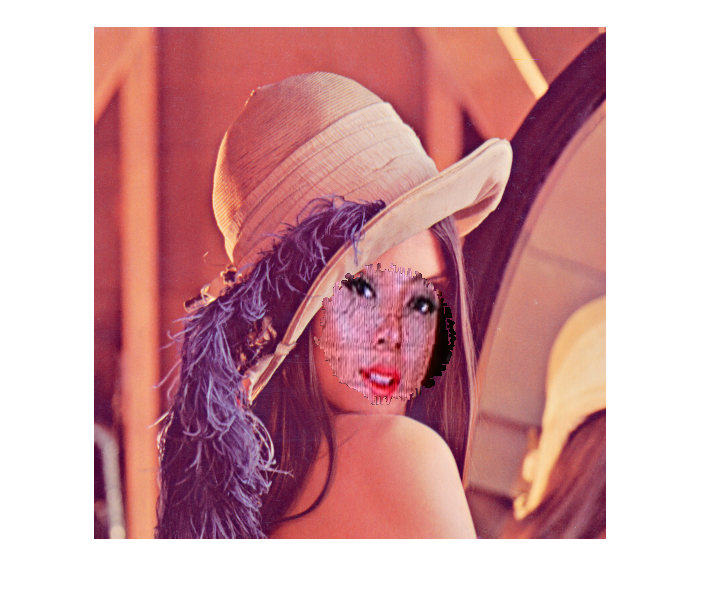
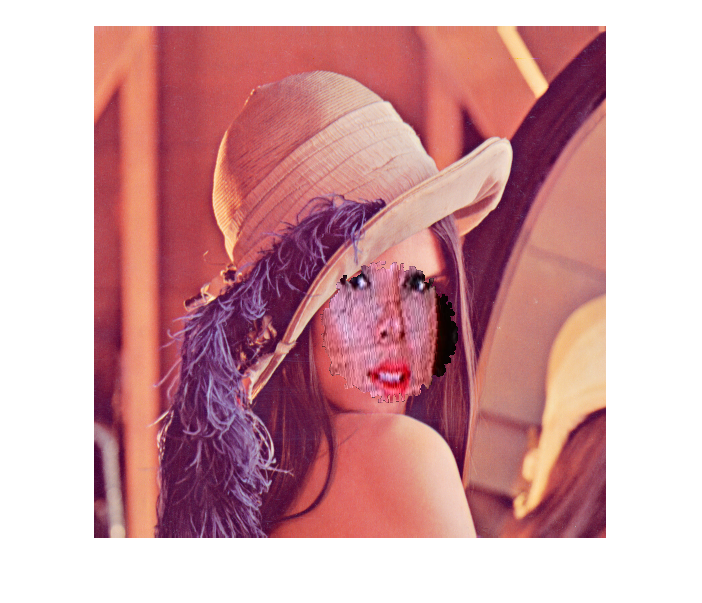
Versao mais recente

diff --git a/auto.m b/auto.m
@@ -21,24 +21,24 @@ function final = auto(face1, face2, opt, grad_type)
     P1 = landmarks(I1, det1);
     P2 = landmarks(I2, det2);
     
-    eye1_1 = [(P1(1, 2) + P1(1, 5)) / 2, (P1(2, 2) + P1(2, 5)) / 2];
-    eye1_2 = [(P2(1, 2) + P2(1, 5)) / 2, (P2(2, 2) + P2(2, 5)) / 2];
+    eye1_1 = [(P1(1, 2) + P1(1, 6)) / 2, (P1(2, 2) + P1(2, 6)) / 2]
+    eye2_1 = [(P1(1, 3) + P1(1, 7)) / 2, (P1(2, 3) + P1(2, 7)) / 2]
     
-    eye2_1 = [(P1(1, 3) + P1(1, 7)) / 2, (P1(2, 3) + P1(2, 7)) / 2];
-    eye2_2 = [(P2(1, 3) + P2(1, 7)) / 2, (P2(2, 3) + P2(2, 7)) / 2];
+    eye1_2 = [(P2(1, 2) + P2(1, 6)) / 2, (P2(2, 2) + P2(2, 6)) / 2]
+    eye2_2 = [(P2(1, 3) + P2(1, 7)) / 2, (P2(2, 3) + P2(2, 7)) / 2]
     
-    if eye1_2(1) - eye1_1(1) ~= 0
-        inc_1 = atan((eye1_2(2) - eye1_1(2)) / (eye1_2(1) - eye1_1(1)))
+    if eye2_1(1) - eye1_1(1) ~= 0
+        inc_1 = atan((eye2_1(2) - eye1_1(2)) / (eye2_1(1) - eye1_1(1)))
     else
-        inc_1 = 0;
+        inc_1 = 0
     end
-    if eye2_2(1) - eye2_1(1) ~= 0
-        inc_2 = atan((eye2_2(2) - eye2_1(2)) / (eye2_2(1) - eye2_1(1)))
+    if eye2_2(1) - eye1_2(1) ~= 0
+        inc_2 = atan((eye2_2(2) - eye1_2(2)) / (eye2_2(1) - eye1_2(1)))
     else
-        inc_2 = 0;
+        inc_2 = 0
+        
+        
     end
-    
-    close all;
     
     rot = 180 * (inc_2 - inc_1) / pi;
     
@@ -47,7 +47,6 @@ function final = auto(face1, face2, opt, grad_type)
     %% Cria mascara
     
     [Op, mak, cen2, x, y] = seam_search(I2, det2, opt, grad_type);
-    P1 = landmarks(I1, det1);
     
     %% Resize
     
@@ -94,7 +93,6 @@ function final = auto(face1, face2, opt, grad_type)
     [n, m, ~] = size(I1);
     [d, e, ~] = size(Op);
     
-    figure; imshow(I1);
     for i = 1:d
         for j = 1:e
             if mak(i, j) ~= 0

diff --git a/landmarks.m b/landmarks.m
@@ -2,10 +2,44 @@
 
 function P = landmarks(I, fname)
     
-    detector = vision.CascadeObjectDetector;
-    box = step(detector, I);
+    function d = search_int(I)
+        [a, b, ~] = size(I);
+        x_min = b;
+        y_min = a;
+        x_max = 0;
+        y_max = 0;
+        
+        for k = 1:a
+            for l = 1:b
+                if I(k, l, 1) ~= 0 || I(k, l, 2) ~= 0 || I(k, l, 3) ~= 0
+                    if k < y_min
+                        y_min = k;
+                    end
+                    if k > y_max
+                        y_max = k;
+                    end
+                    if l < x_min
+                        x_min = l;
+                    end
+                    if l > x_max
+                        x_max = l;
+                    end
+                end
+            end
+        end
+        d = [x_min, y_min, x_max, y_max];
+    end
     
-    bbox = [box(1, 1), box(1, 2), box(1, 1) + box(1, 3), box(1, 2) + box(1, 4)];
+    detector = vision.CascadeObjectDetector;
+    box = step(detector, I)
+    
+    [n, m] = size(box);
+    
+    if n == 0
+       bbox = search_int(I)
+    else
+        bbox = [box(1, 1), box(1, 2), box(1, 1) + box(1, 3), box(1, 2) + box(1, 4)];
+    end
     
     fid = fopen(fname, 'w');
     
@@ -31,6 +65,8 @@ function P = landmarks(I, fname)
         text(P(1, 1)+1, P(2, 1)+1, comps(1,:), 'color', 'b', 'FontSize', 12);
         plot(P(1, 2:end), P(2, 2:end), 'rs', 'LineWidth', 1, 'MarkerSize', 5, 'MarkerFaceColor', 'r');
         text(P(1, 2:end)+1, P(2, 2:end)+1, comps(2:end,:), 'color', 'r', 'FontSize', 12);
+        
+        pause;
     end;
     hold off
 end

diff --git a/seam_search.m b/seam_search.m
@@ -45,9 +45,9 @@ function [Op, mak, cen, xa, yb] = seam_search(I, filename, opt, grad_type)
         
         if op == 1
         
-        [mask, num] = square(y, x, cy, cx, 1.4 * miniy, 1.4 * minix);
+        [mask, num] = square(y, x, cy, cx, 1.4 * miniy, 1.6 * minix);
         figure; imshow(mask);
-        [temp, ntemp] = square(y, x, cy, cx, 1.2 * miniy, 1.2 * minix);
+        [temp, ntemp] = square(y, x, cy, cx, 1.2 * miniy, 1.4 * minix);
         figure; imshow(temp);
         mask = (mask | temp) & ~(mask & temp);
         num = num - ntemp;
@@ -74,6 +74,7 @@ function [Op, mak, cen, xa, yb] = seam_search(I, filename, opt, grad_type)
         mask2(:,:,3) = mask;
         mi_ta = minix * miniy * pi;
         figure; imshow(uint8(mask2) .* I);
+        pause;
         end
     end
     
@@ -109,7 +110,7 @@ function [Op, mak, cen, xa, yb] = seam_search(I, filename, opt, grad_type)
     mask(endi(1), endi(2))
     
     I_hsv = rgb2hsv(I);
-    figure; imshow(I_hsv(:,:,1));
+    figure; imshow(I_hsv(:,:,1)); pause;
     
     
     if grad_type == 0
@@ -137,5 +138,5 @@ function [Op, mak, cen, xa, yb] = seam_search(I, filename, opt, grad_type)
     figure; imshow(Op);
     
     cen = round(cen);
-    
+    pause; close all;
 end
